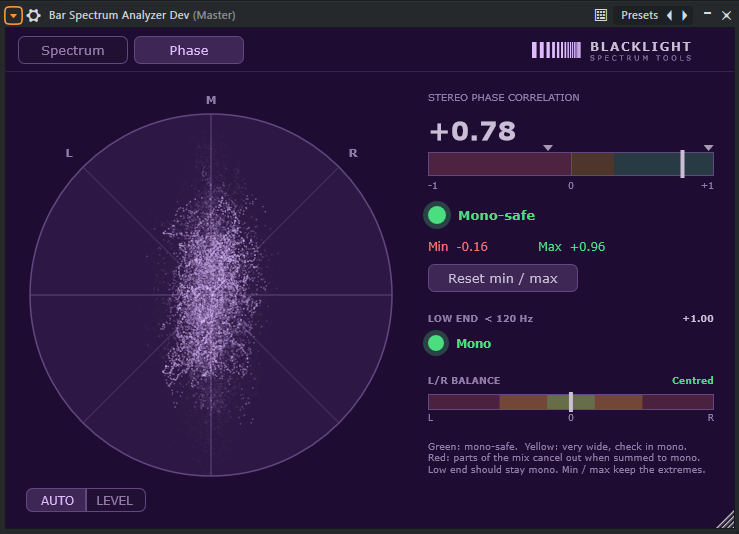
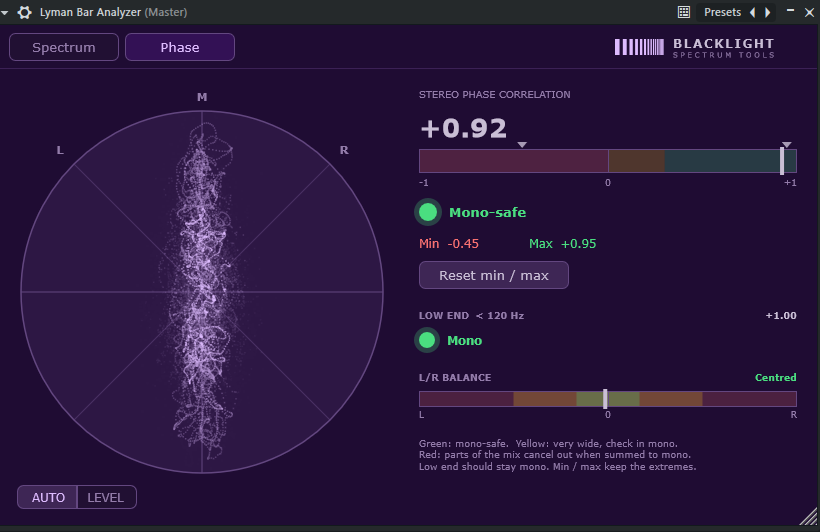
Rename to Lyman Bar Analyzer by Blacklight Spectrum Tools (final plugin IDs, new screenshots)

diff --git a/README.md b/README.md
@@ -1,4 +1,6 @@
-# Bar Spectrum Analyzer (VST3)
+# Lyman Bar Analyzer (VST3)
+
+**by Blacklight Spectrum Tools**
 
 *[Leer en español](README.es.md)*
 
@@ -91,12 +93,12 @@ The first build takes several minutes because it compiles all of JUCE.
 When it finishes, the plugin is at:
 
 ```
-build/BarSpectrumAnalyzer_artefacts/Release/VST3/Bar Spectrum Analyzer Dev.vst3
+build/BarSpectrumAnalyzer_artefacts/Release/VST3/Lyman Bar Analyzer.vst3
 ```
 
-The current development build is named **"Bar Spectrum Analyzer Dev"** so
-it can live next to version 1.0 without replacing it. Version 1.0 is
-available under the `v1.0` git tag.
+Earlier builds (version 1.0 and "Bar Spectrum Analyzer Dev") use different
+plugin IDs, so they can stay installed next to Lyman and your old projects
+keep finding them. Version 1.0 is available under the `v1.0` git tag.
 
 ## Installing
 
@@ -116,7 +118,7 @@ confirmation), or run the build from a terminal opened as administrator.
 
 1. Rescan plugins in your DAW. In FL Studio: **Options → Manage Plugins →
    Find plugins**.
-2. Insert **"Bar Spectrum Analyzer Dev"** on the track or bus you want to
+2. Insert **"Lyman Bar Analyzer"** on the track or bus you want to
    measure. It shows the signal exactly as it is at that point of the chain:
    in the last slot you see what the channel really sends out; before a
    compressor you see what the compressor receives. You can also use two

diff --git a/README.es.md b/README.es.md
@@ -1,4 +1,6 @@
-# Bar Spectrum Analyzer (VST3)
+# Lyman Bar Analyzer (VST3)
+
+**by Blacklight Spectrum Tools**
 
 *[Read in English](README.md)*
 
@@ -91,12 +93,13 @@ La primera compilación tarda varios minutos porque compila JUCE completo.
 Al terminar, el plugin queda en:
 
 ```
-build/BarSpectrumAnalyzer_artefacts/Release/VST3/Bar Spectrum Analyzer Dev.vst3
+build/BarSpectrumAnalyzer_artefacts/Release/VST3/Lyman Bar Analyzer.vst3
 ```
 
-La versión en desarrollo se llama **"Bar Spectrum Analyzer Dev"** para que
-pueda convivir con la versión 1.0 sin reemplazarla. La versión 1.0 está
-disponible en el tag de git `v1.0`.
+Las versiones anteriores (la 1.0 y "Bar Spectrum Analyzer Dev") usan otros
+identificadores de plugin, así que pueden seguir instaladas junto a Lyman y
+tus proyectos viejos las siguen encontrando. La versión 1.0 está disponible
+en el tag de git `v1.0`.
 
 ## Instalar
 
@@ -117,7 +120,7 @@ administrador.
 
 1. Vuelve a buscar plugins en tu DAW. En FL Studio: **Options → Manage
    Plugins → Find plugins**.
-2. Inserta **"Bar Spectrum Analyzer Dev"** en la pista o bus que quieras
+2. Inserta **"Lyman Bar Analyzer"** en la pista o bus que quieras
    medir. Muestra la señal tal como está en ese punto de la cadena: en el
    último slot ves lo que el canal realmente manda; antes de un compresor
    ves lo que el compresor recibe. También puedes usar dos instancias, una
